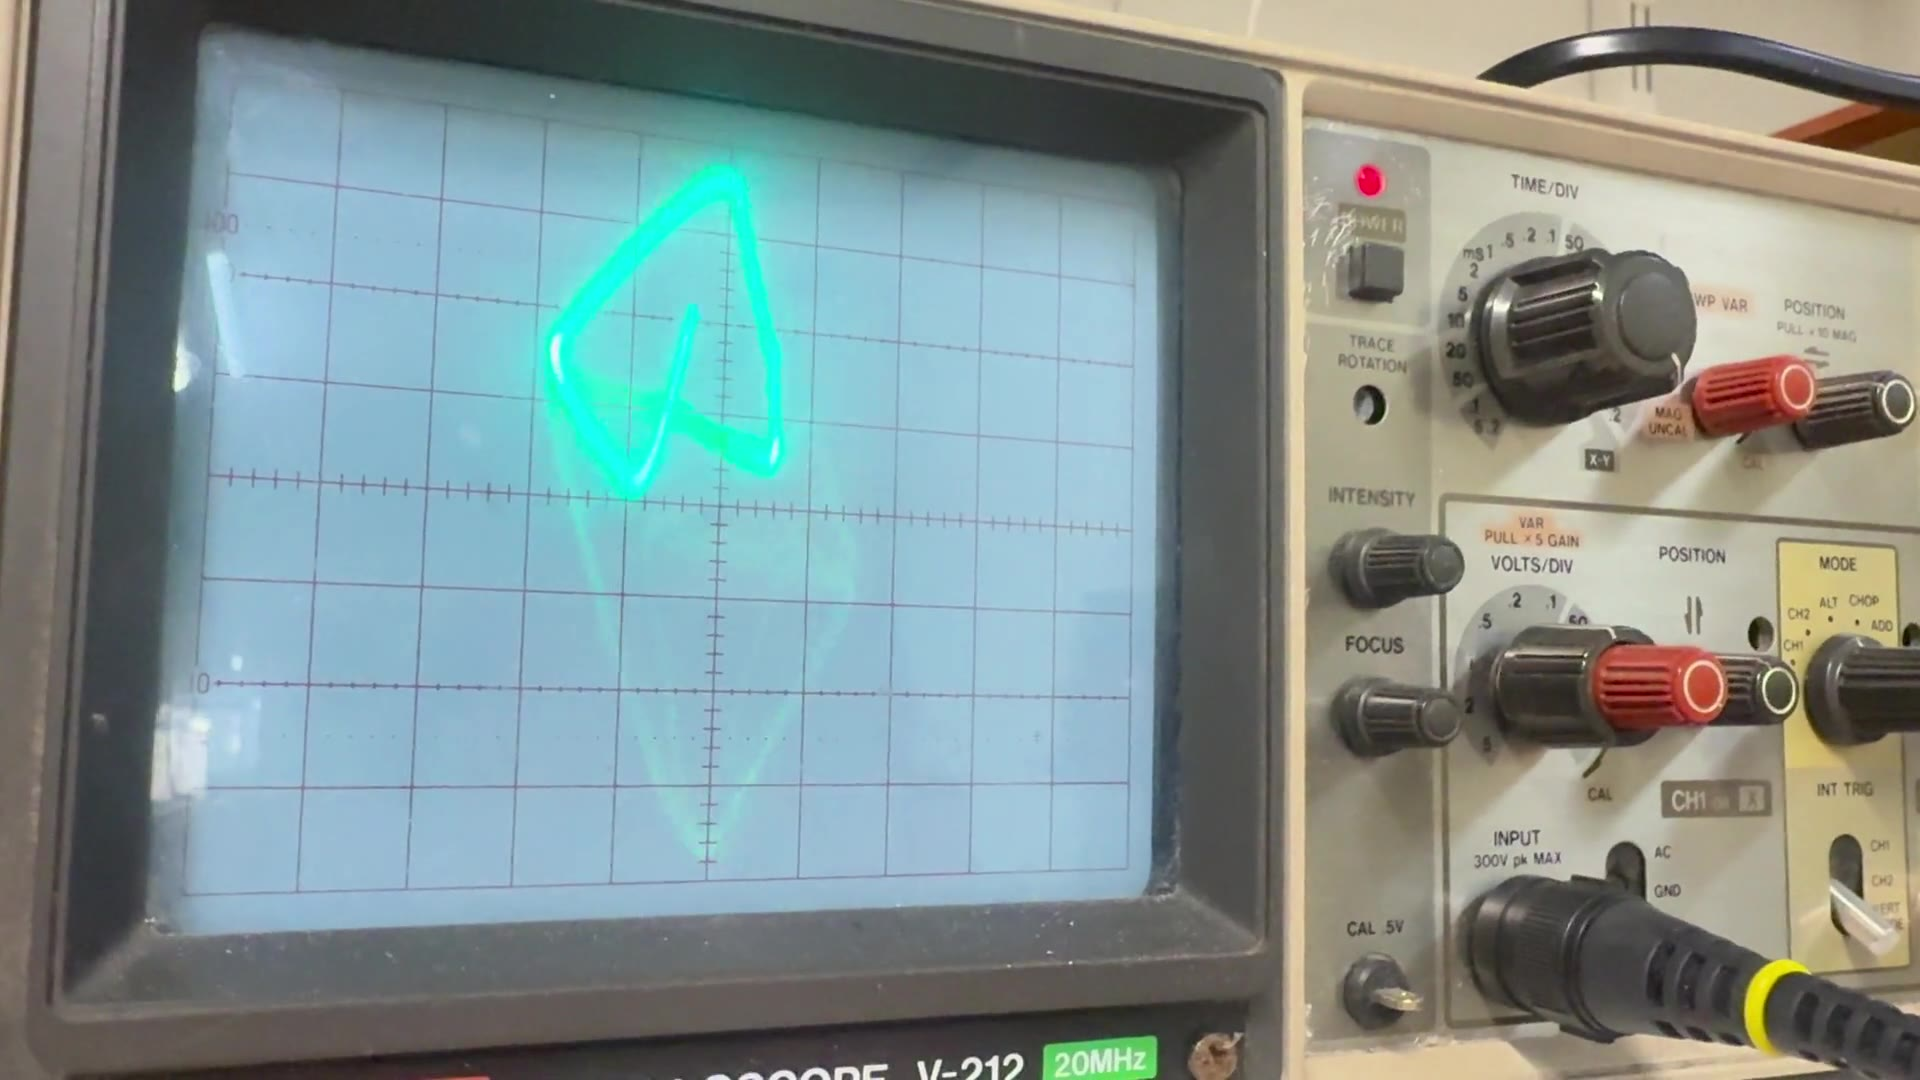
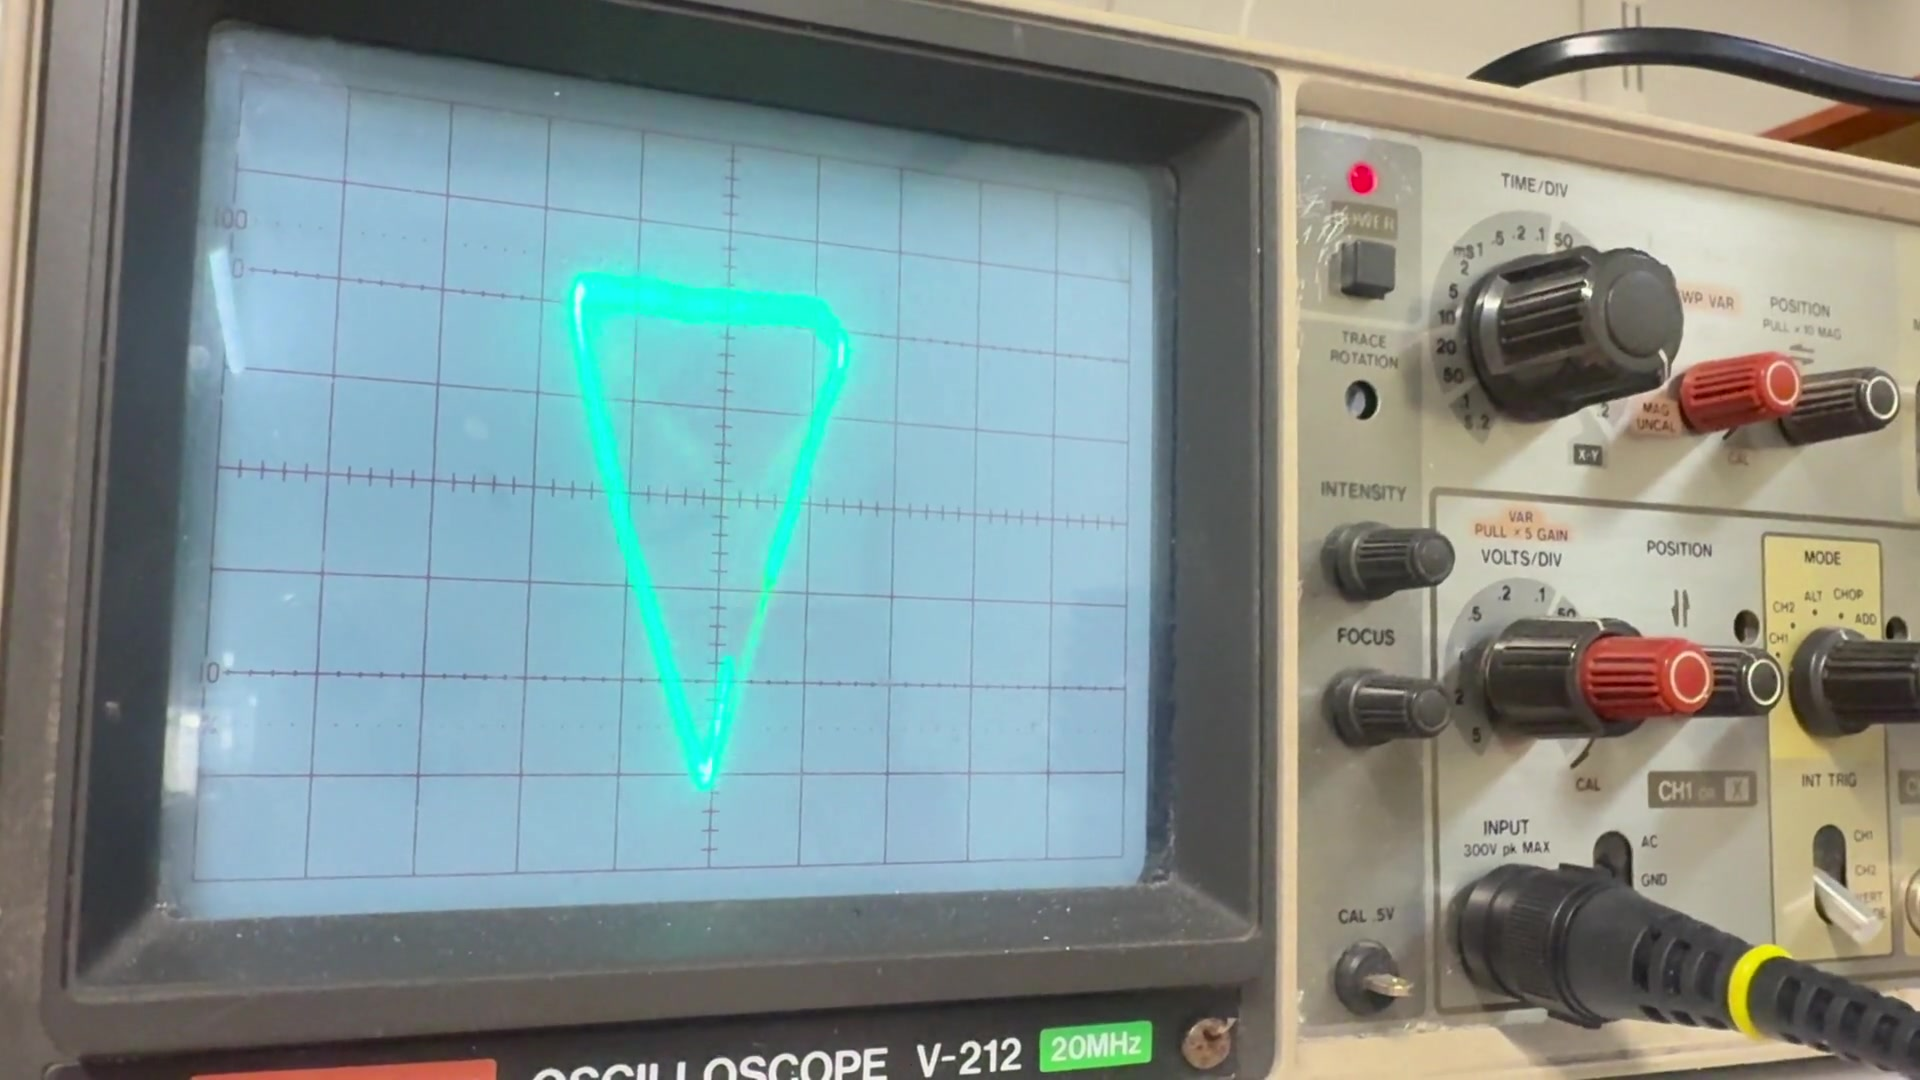
Rewrite documentation in English and improve the cover frame

diff --git a/README.md b/README.md
@@ -1,96 +1,110 @@
 # Matzo Vector Scope
 
-Vektorgrafik på ett analogt oscilloskop med NodeMCU/ESP8266. Två filtrerade PWM-utgångar styr X och Y. Projektet utvecklas med ett Hitachi V-212 i X–Y-läge.
+[![A complete green vector triangle on the Hitachi V-212 CRT](docs/images/oscilloscope-demo.jpg)](docs/videos/matzo-vector-scope-silent.mp4)
 
-## Demonstration
+**Turn a classic CRT oscilloscope into a vector display with a NodeMCU ESP8266.**
 
-[![Vektorgrafik på oscilloskopet](docs/images/oscilloscope-demo.jpg)](docs/videos/matzo-vector-scope-silent.mp4)
+Two filtered PWM outputs drive the X and Y inputs of a Hitachi V-212. The sketch draws rotating solids and smooth curves using integer arithmetic and a sine lookup table.
 
-[Öppna den ljudlösa demonstrationsvideon](docs/videos/matzo-vector-scope-silent.mp4). Videon är cirka 13 sekunder lång och sparad som MP4 i 1080p med originalets bildfrekvens. Alla ljudspår är borttagna. HDR-färgerna har anpassats för vanlig SDR-uppspelning.
+[Watch the silent demo](docs/videos/matzo-vector-scope-silent.mp4) · [Open the Arduino sketch](MatzoShapes.ino)
 
-## Former
+## The show
 
-Programmet visar en form i taget: kub, cirkel, oktaeder, tetraeder, pyramid, blomkurva, rymdskepp och en tredimensionell slinga. Det använder heltalsberäkningar och en sinustabell. Varje form visas i sju sekunder och hela showen upprepas.
+One continuous shape is drawn at a time:
 
-Text, stjärnbakgrund och separata vektorbollar ingår inte i den aktuella versionen.
+- Rotating cube and octahedron.
+- Breathing circle.
+- Tetrahedron and square pyramid.
+- Rotating flower curve.
+- A spacecraft with swept wings and a raised canopy.
+- A rotating 3D knot.
 
-## Delar
+Each shape runs for seven seconds before the next begins. The sequence repeats automatically.
 
-- NodeMCU med ESP8266.
-- Två motstånd på 4,7 kΩ.
-- Två kondensatorer på 100 nF, normalt märkta `104`.
-- Kopplingsdäck och ledningar.
-- Två prober eller BNC-kablar och ett oscilloskop med X–Y-läge.
-- USB-kabel som stöder dataöverföring.
+## Hardware
 
-## Koppling
+- NodeMCU ESP8266 board.
+- Two **4.7 kΩ** resistors.
+- Two **100 nF** capacitors, commonly marked `104`.
+- Breadboard, jumper wires and a USB data cable.
+- Two oscilloscope probes or BNC leads.
+- An oscilloscope with X–Y mode.
 
-| NodeMCU | GPIO i koden | Oscilloskop |
+## Wiring
+
+| NodeMCU pin | GPIO used in the sketch | Oscilloscope input |
 | --- | --- | --- |
-| D1 | 5 | CH1 / X |
-| D2 | 4 | CH2 / Y |
-| GND | — | Båda probjordarna och kondensatorernas jordben |
+| **D1** | **5** | **CH1 / X** |
+| **D2** | **4** | **CH2 / Y** |
+| **GND** | — | Both probe grounds and both capacitor ground connections |
 
-Varje kanal har ett eget RC-filter. Anslut probspetsen efter motståndet, på samma punkt som kondensatorns signalben:
+Build a separate RC filter for each output. Connect the probe tip **after the resistor**, at the same junction as the capacitor's signal lead:
 
 ```text
-D1 ──[4,7 kΩ]──┬──── CH1 / X
+D1 ──[4.7 kΩ]──┬──── CH1 / X
                │
              [100 nF]
                │
               GND
 
-D2 ──[4,7 kΩ]──┬──── CH2 / Y
+D2 ──[4.7 kΩ]──┬──── CH2 / Y
                │
              [100 nF]
                │
               GND
 ```
 
-Mata NodeMCU via USB. Anslut oscilloskopets jordklämmor till kretsens GND. Kondensatorerna laddas och laddas ur genom motstånden, så att PWM-pulserna blir en jämnare analog spänning. Filtrets tidskonstant är cirka 470 µs och dess gränsfrekvens cirka 339 Hz.
+Power the board through USB. All circuit grounds must be connected together. Attach the oscilloscope ground clips to circuit GND.
 
-## Ladda upp
+The resistors and capacitors smooth the PWM pulses into changing analog voltages. Each filter has a time constant of approximately **470 µs** and a cutoff frequency of approximately **339 Hz**.
 
-1. Installera ESP8266-kortstödet i Arduino IDE enligt [projektets installationsanvisning](https://arduino-esp8266.readthedocs.io/en/latest/installing.html).
-2. Öppna `MatzoShapes.ino`. Behåll filen i en mapp som heter `MatzoShapes` när du öppnar den med Arduino IDE.
-3. Välj **NodeMCU 1.0 (ESP-12E Module)** och kortets USB-port.
-4. Börja med **Upload Speed: 115200** och ladda upp.
-5. Öppna Serial Monitor på **115200 baud** om du vill se scenbytena.
+## Upload with Arduino IDE
 
-Om uppladdningen fastnar vid `Connecting...`, koppla först bort externa anslutningar. Håll sedan FLASH inne och tryck kort på RST. Släpp FLASH när uppladdningen börjar.
+1. Install the ESP8266 board package using the [official installation guide](https://arduino-esp8266.readthedocs.io/en/latest/installing.html).
+2. Download [`MatzoShapes.ino`](MatzoShapes.ino) and open it in Arduino IDE. Accept the IDE's offer to place it in a folder named **MatzoShapes**, or create that folder yourself.
+3. Select **NodeMCU 1.0 (ESP-12E Module)** and the board's USB port.
+4. Start with **Upload Speed: 115200**, then upload.
+5. Open Serial Monitor at **115200 baud** to see the scene numbers.
 
-## Hitachi V-212
+If uploading stalls at `Connecting...`, disconnect external wiring first. Hold **FLASH**, briefly press **RST**, and release FLASH once writing begins.
 
-- TIME/DIV: **X–Y**.
-- CH1 och CH2: **DC-koppling**.
-- Börja med **0,5 V/div** på båda kanalerna.
-- Båda VAR-rattarna i **CAL** och förstärkningsrattarna intryckta.
-- Använd samma probfaktor på båda kanalerna; ×1 passar för första försöket.
-- Centrera bilden och håll ljusstyrkan måttlig. Lämna inte en stark, stillastående punkt på skärmen.
+## Set up the Hitachi V-212
 
-## Justeringar
+- Set **TIME/DIV to X–Y**.
+- Set both input coupling switches to **DC**.
+- Start at **0.5 V/div** on both channels.
+- Set both **VAR** controls to **CAL**, with the gain controls pushed in.
+- Use the same probe factor on both channels; **×1** is suitable for the first test.
+- Center the image and keep the intensity moderate. Avoid leaving a bright stationary dot on the CRT.
 
-Ändra konstanterna högst upp i programmet:
+## Adjust the animation
 
-| Inställning | Standard | Effekt |
+Edit the constants near the top of the sketch:
+
+| Setting | Default | What it changes |
 | --- | --- | --- |
-| `MOTION_SPEED` | `2` | Rörelsehastighet. Prova `1`, `2` eller `3`. |
-| `AMPLITUDE` | `100` | Figurernas storlek. Lägre värde ger mindre bild. |
-| `POINT_US` | `80` | Väntetid vid varje ritpunkt. Lägre värde kan ge mer avrundning. |
-| `SCENE_MS` | `7000` | Tid i millisekunder per form. |
+| `MOTION_SPEED` | `2` | Animation speed. Try `1`, `2` or `3`. |
+| `AMPLITUDE` | `100` | Image size. Reduce it for a smaller image. |
+| `POINT_US` | `80` | Dwell time at each point. Reducing it can increase rounding. |
+| `SCENE_MS` | `7000` | Duration of each shape, in milliseconds. |
 
-PWM-frekvensen är 20 kHz. `analogWriteFreq()` stöder upp till 40 kHz i ESP8266:s Arduino-stöd, men högre frekvens belastar processorn mer. Ändra en inställning i taget. [PWM-dokumentation](https://arduino-esp8266.readthedocs.io/en/latest/reference.html#analog-output).
+PWM runs at **20 kHz**. ESP8266 Arduino supports settings up to **40 kHz**, but software PWM consumes more CPU time as frequency increases. Change one setting at a time. See the [PWM reference](https://arduino-esp8266.readthedocs.io/en/latest/reference.html#analog-output).
 
-## Status och begränsningar
+Increasing `MOTION_SPEED` makes objects move faster while preserving the time allowed for the filters to follow each traced line.
 
-Enklare vektorformer har fungerat på den fysiska uppkopplingen. Den aktuella versionen har byggts utan fel för **NodeMCU 1.0 / ESP8266**, med **ESP8266 Arduino Core 3.1.2** och kortprofilen `esp8266:esp8266:nodemcuv2`.
+## Verification and limitations
 
-Geometriska banor har kontrollerats för giltiga hörnreferenser, slutna banor och signalutslag vid samplade rotationer. En separat lokal kontroll med simulerade Arduino-anrop körde alla åtta scener, kontrollerade PWM-värdena och verifierade att scenloopen återgick till kuben. Videofilen har avkodats i sin helhet och verifierats sakna ljudspår.
+The current sketch builds successfully for **NodeMCU 1.0 / ESP8266** using **ESP8266 Arduino Core 3.1.2** and board profile `esp8266:esp8266:nodemcuv2`.
 
-Byggkontrollerna bekräftar att programmet kompilerar, men den aktuella showens slutliga utseende behöver fortfarande bedömas på oscilloskopet.
+Additional checks covered valid vertex references, closed drawing paths and output bounds at sampled rotations. A local simulation ran all eight scenes, checked PWM values and verified that the sequence returns to the cube.
 
-RC-filtren rundar av hörn och lämnar kvar viss PWM-rippel. Ingen Z-släckning används. Därför passar sammanhängande ritbanor bättre än många separata punkter eller textstreck.
+The RC filters soften corners and leave some PWM ripple. No Z-axis blanking is implemented, so the show uses continuous paths rather than disconnected stars or text strokes. The final appearance of the current show still needs to be assessed on the physical oscilloscope.
 
-## Bilder
+## Demo and project media
 
-Projektbilder läggs i [`docs/images/`](docs/images/) och videor i [`docs/videos/`](docs/videos/). Koppling, oscilloskopinställningar och fler exempel på former kan läggas till i nästa iteration.
+The demonstration is approximately **13 seconds**, encoded as **1080p H.264 MP4** at the original frame rate. **All audio tracks have been removed.** HDR footage was converted to SDR for ordinary playback. The entire output video was decoded successfully and verified to contain no audio streams.
+
+The video shows the hardware in action; it is not a recording of every shape in the current sketch.
+
+- Images: [`docs/images/`](docs/images/)
+- Video: [`docs/videos/`](docs/videos/)
